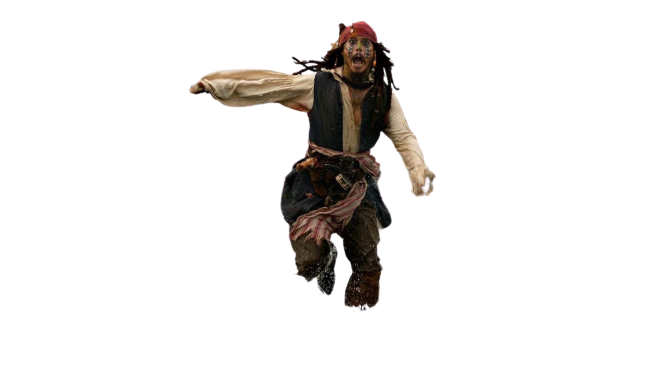
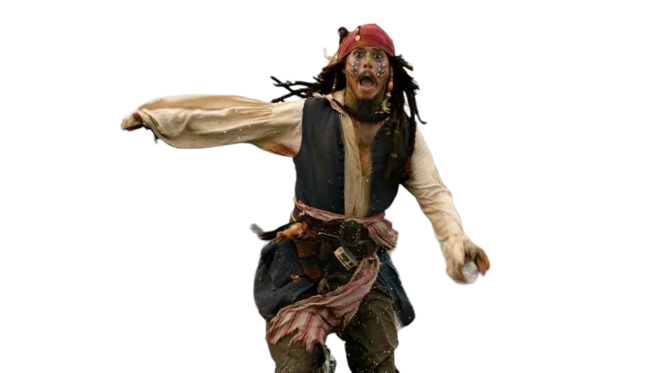
fixed jacksparrow

Changed region(s): [[0.1802, 0.059, 0.7508, 1.0]]

diff --git a/assets/pages/parallax project/assets/js/app.js b/assets/pages/parallax project/assets/js/app.js
@@ -1,5 +1,5 @@
 let mainText = document.getElementById("Mtext");
-let mansionImg = document.getElementById("mansion");
+let jSparrowImg = document.getElementById("jSparrow");
 
 window.addEventListener("scroll", f => {
   let value = window.scrollY;
@@ -9,7 +9,7 @@ window.addEventListener("scroll", f => {
 
 window.addEventListener("scroll", e => {
     let value2 = window.scrollY;
-    mansionImg.style.marginTop = value2 + "px";
-    let scaleValue = (value2 * 0.2) / 100;
-    mansionImg.style.transform = "scale(" + scaleValue + ")";
+    jSparrowImg.style.marginTop = value2 + "px";
+    let scaleValue = (value2 * 0.5) / 100;
+    jSparrowImg.style.transform = "scale(" + scaleValue + ")";
 })

diff --git a/assets/pages/parallax project/assets/css/app.css b/assets/pages/parallax project/assets/css/app.css
@@ -5,6 +5,11 @@ body, h1, p {
 ::-webkit-scrollbar {
     display: none;
 }
+.center {
+    display: flex;
+    align-items: center;
+    justify-content: center;
+}
 body {
     margin-top: 0;
     margin-right: 0;
@@ -14,8 +19,8 @@ body {
 }
 .start {
     height: 400vh;
-    /* height: 100vh; */
     background-color: black;
+    overflow-y: hidden;
 }
 .start p {
     position: absolute;
@@ -32,7 +37,7 @@ body {
     height: 400vh;
     overflow-y: hidden;
 }
-img#mansion {
+img#jSparrow {
     margin: 0;
     scale: 0.1;
 }

diff --git a/assets/pages/parallax project/index.html b/assets/pages/parallax project/index.html
@@ -18,16 +18,8 @@
 <!-- start -->
 <div class="start center">
   <p id="Mtext">Parallax Website</p> 
-<!-- </div> -->
-
-<!-- intro box -->
-<!-- <section id="intro"> -->
-  <!-- <div class="container center" > -->
-    <img id="mansion" src="assets/images/jack_sparrow.png"  alt="mansion_img">
-  </div> 
-<!-- </section> -->
-
-<!-- hogwarts background -->
+    <img id="jSparrow" src="assets/images/jack_sparrow.png"  alt="mansion_img">
+  </div>
 <section id="hgback">
 </section>
 
